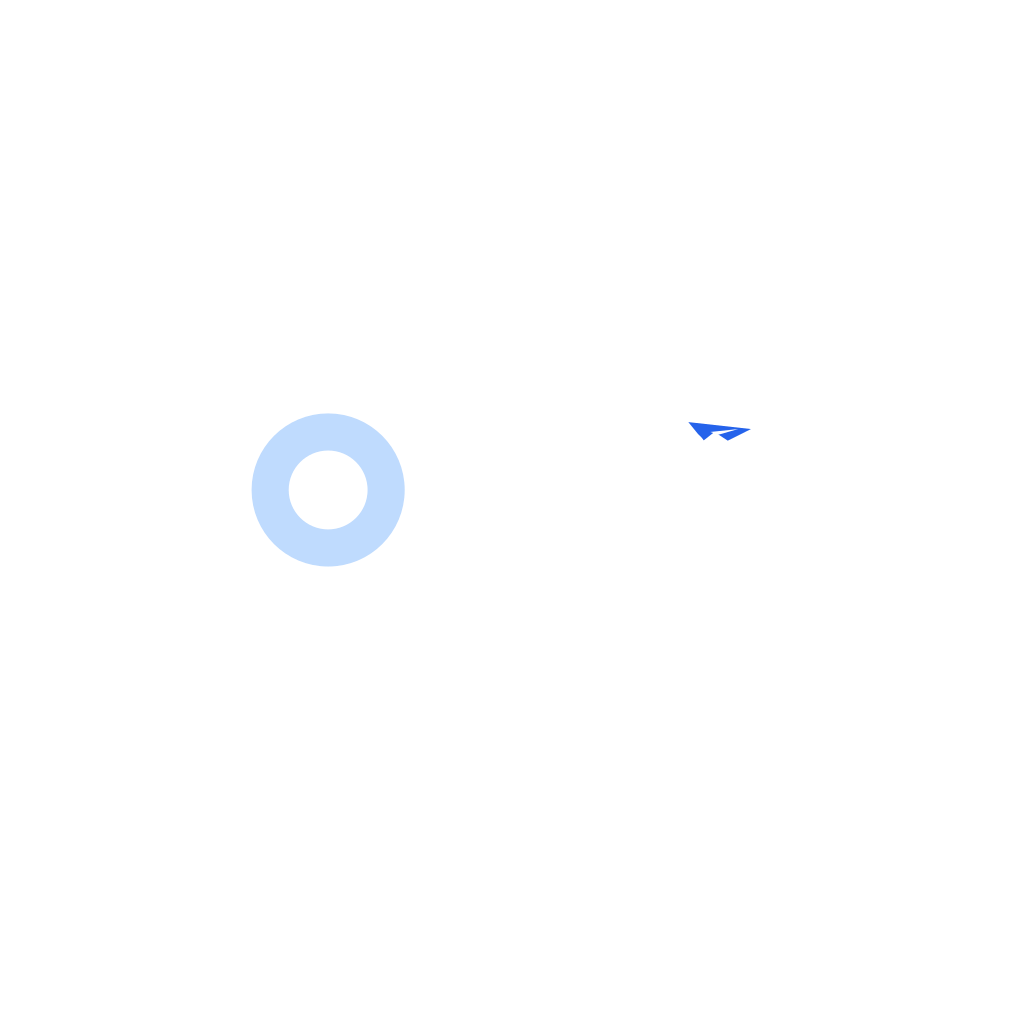
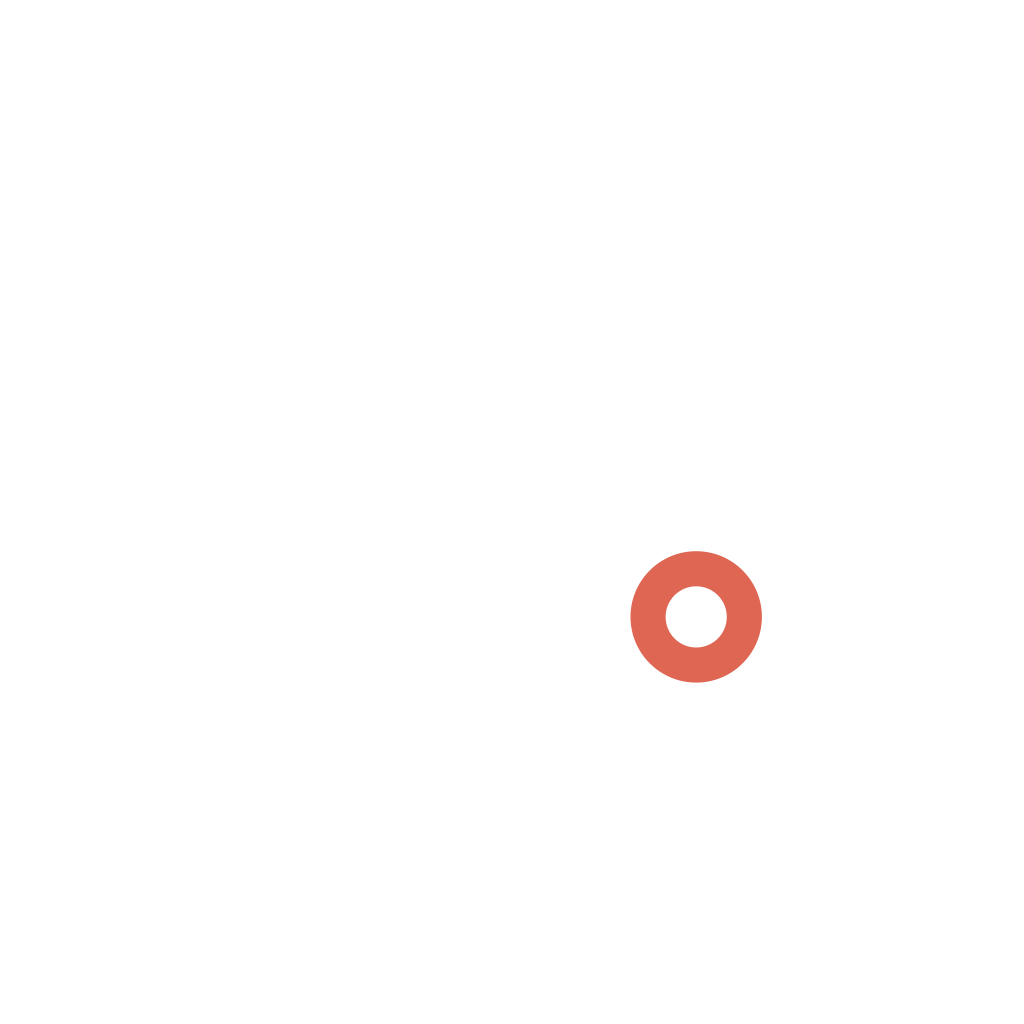
feat(TASK-066): apply canonical brand asset pipeline

Changed region(s): [[0.2188, 0.4062, 0.4062, 0.5625], [0.5938, 0.5312, 0.75, 0.6875], [0.6562, 0.4062, 0.7188, 0.4375]]

diff --git a/packages/design-tokens/src/index.ts b/packages/design-tokens/src/index.ts
@@ -1,5 +1,5 @@
 /**
- * OnVoy 디자인 토큰 (플랫폼 무관 순수 TS 객체)
+ * 갈래 디자인 토큰 (플랫폼 무관 순수 TS 객체)
  *
  * - 색상: HEX 문자열
  * - 치수(radii/spacing/fontSizes): 숫자 (단위 없음)
@@ -10,25 +10,31 @@
 
 export const colors = {
   brand: {
-    primary: '#2563EB',
-    primaryActive: '#1D4ED8',
-    primaryDisabled: '#BFDBFE',
-    error: '#EF4444',
-    errorHover: '#DC2626',
-    ink: '#1E293B',
-    body: '#334155',
-    muted: '#64748B',
-    mutedSoft: '#94A3B8',
-    hairline: '#E2E8F0',
-    hairlineSoft: '#F1F5F9',
-    border: '#E2E8F0',
-    borderStrong: '#CBD5E1',
-    success: '#10B981',
+    primary: '#0D2340',
+    primaryActive: '#081A30',
+    primaryDark: '#081A30',
+    primaryDisabled: '#B8C4D2',
+    accent: '#FF6B5C',
+    secondary: '#1D2433',
+    error: '#D92D20',
+    errorHover: '#B42318',
+    errorLight: '#FEF3F2',
+    warning: '#F79009',
+    ink: '#1D2433',
+    body: '#344054',
+    muted: '#667085',
+    mutedSoft: '#98A2B3',
+    hairline: '#D9DEEA',
+    hairlineSoft: '#EEF1F6',
+    border: '#D9DEEA',
+    borderStrong: '#B8C1D1',
+    success: '#12B76A',
   },
   bg: {
     canvas: '#FFFFFF',
-    surfaceSoft: '#F8FAFF',
-    surfaceStrong: '#F1F5F9',
+    softCotton: '#FBF8F4',
+    surfaceSoft: '#F7F8FC',
+    surfaceStrong: '#F2F4F7',
     scrim: '#000000',
   },
 } as const
@@ -77,6 +83,6 @@ export const fontWeights = {
 export const shadows = {
   card: '0 2px 12px rgba(0,0,0,0.06)',
   modal: '0 20px 60px rgba(0,0,0,0.15)',
-  fab: '0 4px 16px rgba(37,99,235,0.35)',
-  nav: '0 -1px 0 #E2E8F0',
+  fab: '0 4px 16px rgba(13,35,64,0.25)',
+  nav: '0 -1px 0 #D9DEEA',
 } as const

diff --git a/apps/web/panda.config.ts b/apps/web/panda.config.ts
@@ -14,9 +14,14 @@ export default defineConfig({
           brand: {
             primary: { value: colors.brand.primary },
             primaryActive: { value: colors.brand.primaryActive },
+            primaryDark: { value: colors.brand.primaryDark },
             primaryDisabled: { value: colors.brand.primaryDisabled },
+            accent: { value: colors.brand.accent },
+            secondary: { value: colors.brand.secondary },
             error: { value: colors.brand.error },
             errorHover: { value: colors.brand.errorHover },
+            errorLight: { value: colors.brand.errorLight },
+            warning: { value: colors.brand.warning },
             ink: { value: colors.brand.ink },
             body: { value: colors.brand.body },
             muted: { value: colors.brand.muted },
@@ -29,6 +34,7 @@ export default defineConfig({
           },
           bg: {
             canvas: { value: colors.bg.canvas },
+            softCotton: { value: colors.bg.softCotton },
             surfaceSoft: { value: colors.bg.surfaceSoft },
             surfaceStrong: { value: colors.bg.surfaceStrong },
             scrim: { value: colors.bg.scrim },
@@ -62,7 +68,7 @@ export default defineConfig({
           },
           'shadow.sm': { value: '0 1px 2px rgba(0,0,0,0.05)' },
           'shadow.md': { value: '0 4px 12px rgba(0,0,0,0.08)' },
-          'shadow.primary': { value: '0 8px 20px rgba(37, 99, 235, 0.2)' },
+          'shadow.primary': { value: '0 8px 20px rgba(13, 35, 64, 0.2)' },
         },
       },
     },

diff --git a/apps/web/app/globals.css b/apps/web/app/globals.css
@@ -53,8 +53,8 @@ html {
 body {
     -webkit-font-smoothing: antialiased;
     -moz-osx-font-smoothing: grayscale;
-    background: #FFFFFF; /* bg-light (Pure White) */
-    color: #1E293B;      /* text-primary (Deep Slate) */
+    background: #FFFFFF;
+    color: #1D2433;
     min-height: 100vh;
     font-family: var(--font-sans);
 }
@@ -72,7 +72,7 @@ body {
 }
 
 .airbnb-btn-primary {
-    background: #2563EB; /* primary-blue (Cobalt) */
+    background: #0D2340;
     color: #FFFFFF;
     border: none;
     border-radius: 8px; 
@@ -89,12 +89,12 @@ body {
 
 .airbnb-btn-primary:active {
     transform: scale(0.96);
-    background: #1D4ED8; /* primary-blue dark */
+    background: #081A30;
 }
 
 .airbnb-btn-secondary {
     background: #FFFFFF;
-    color: #1E293B;
+    color: #1D2433;
     border: 1px solid #1E293B;
     border-radius: 8px;
     padding: 13px 23px;
